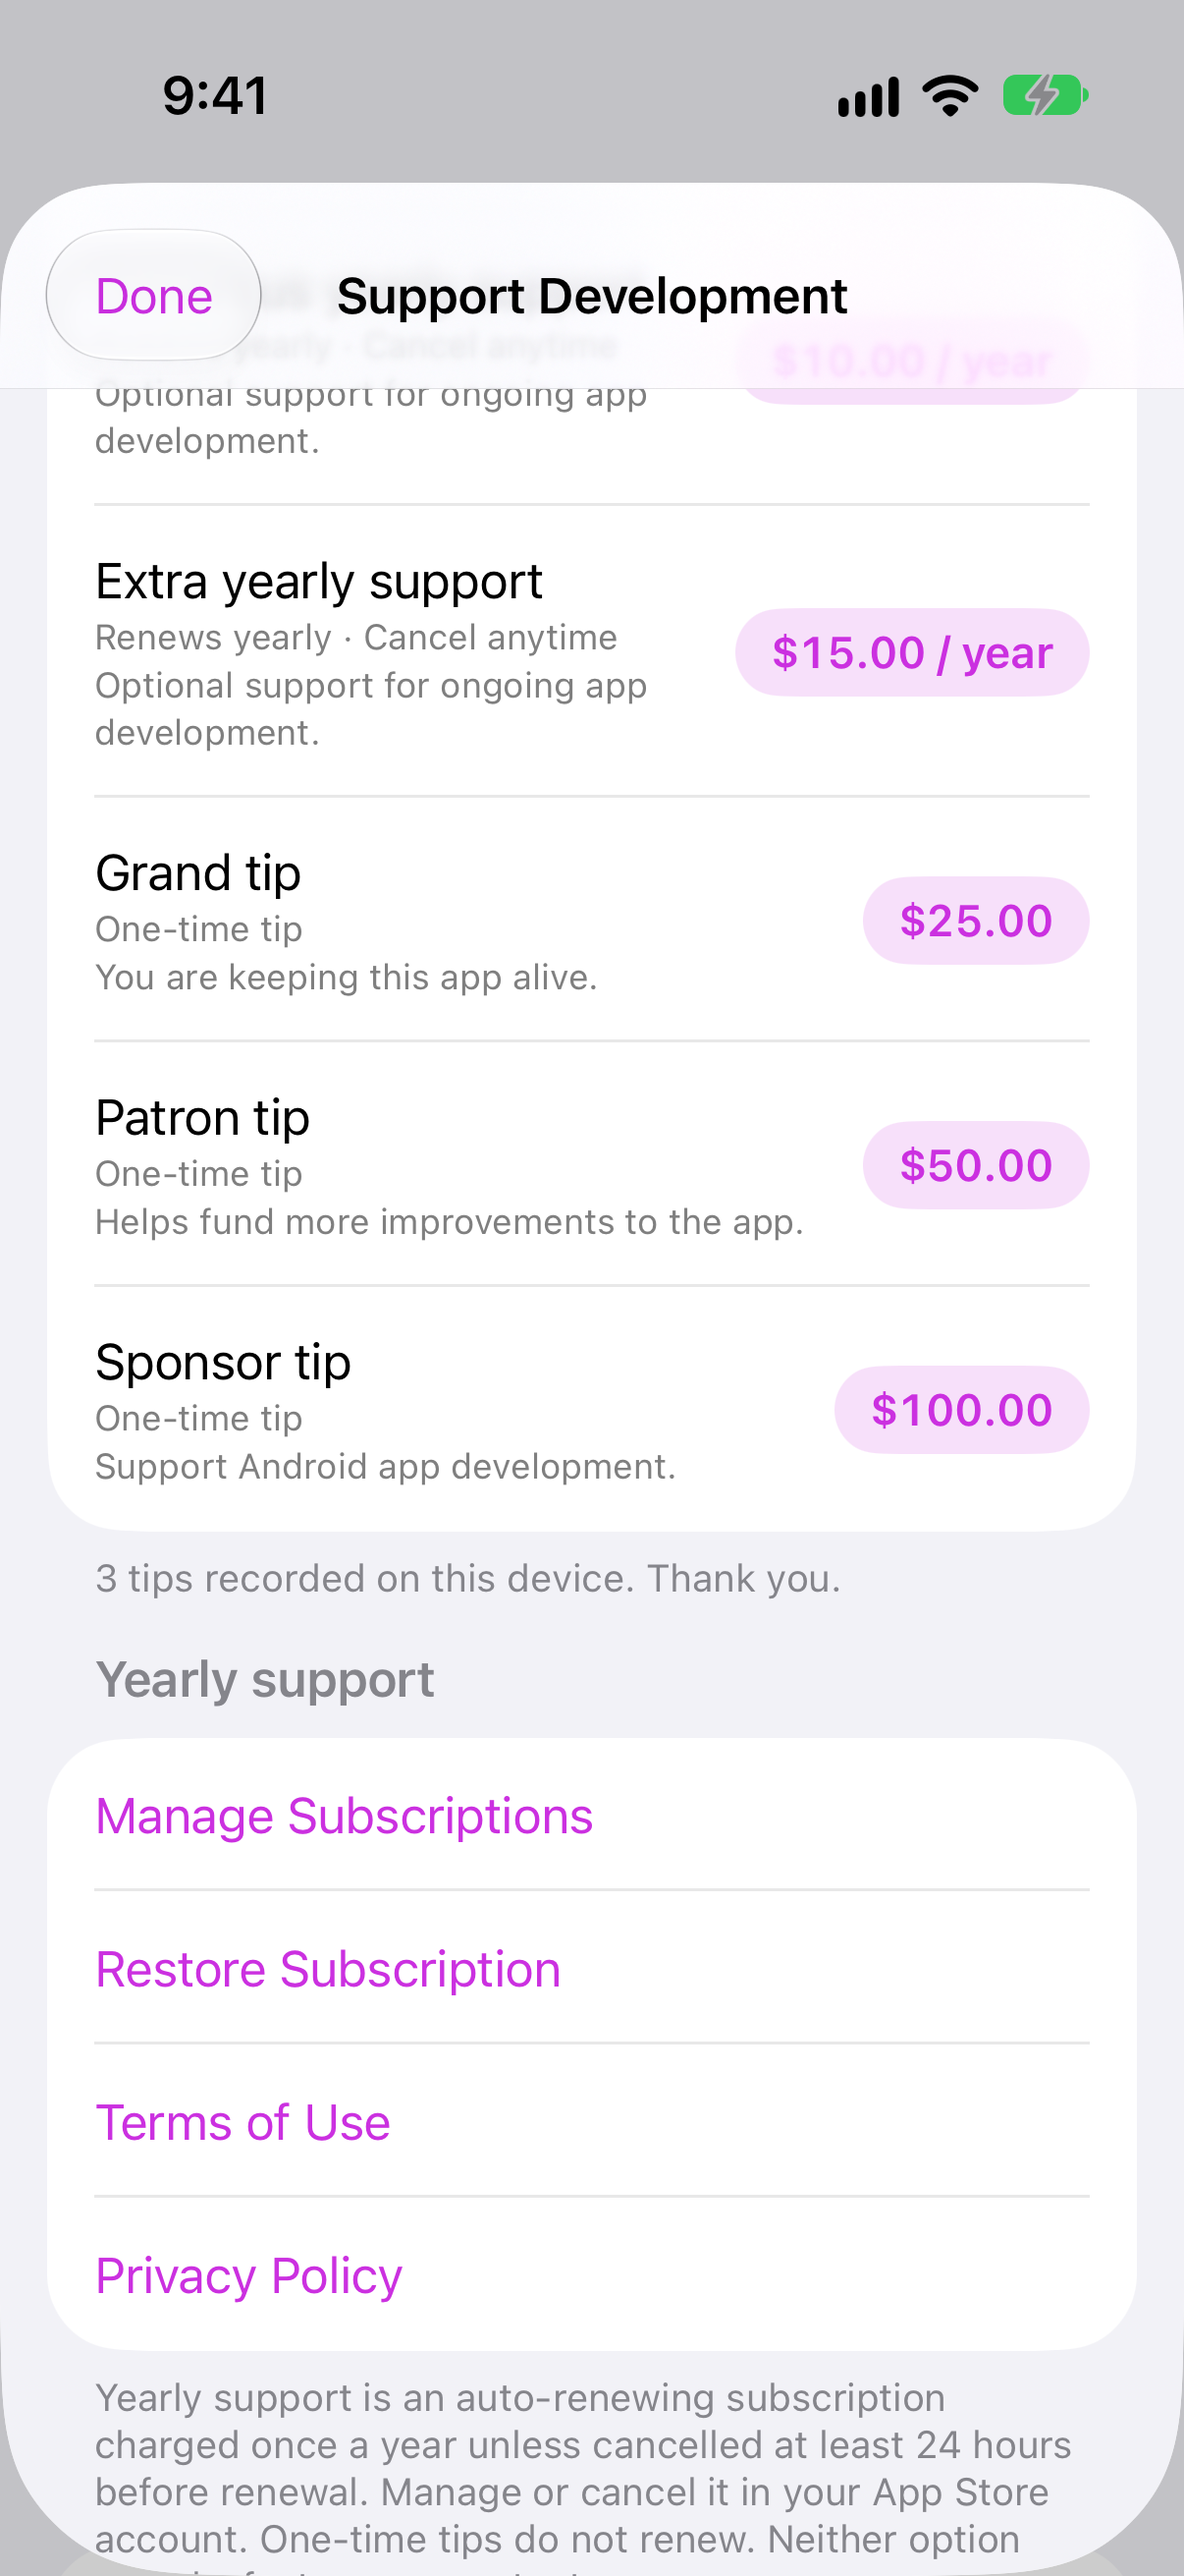
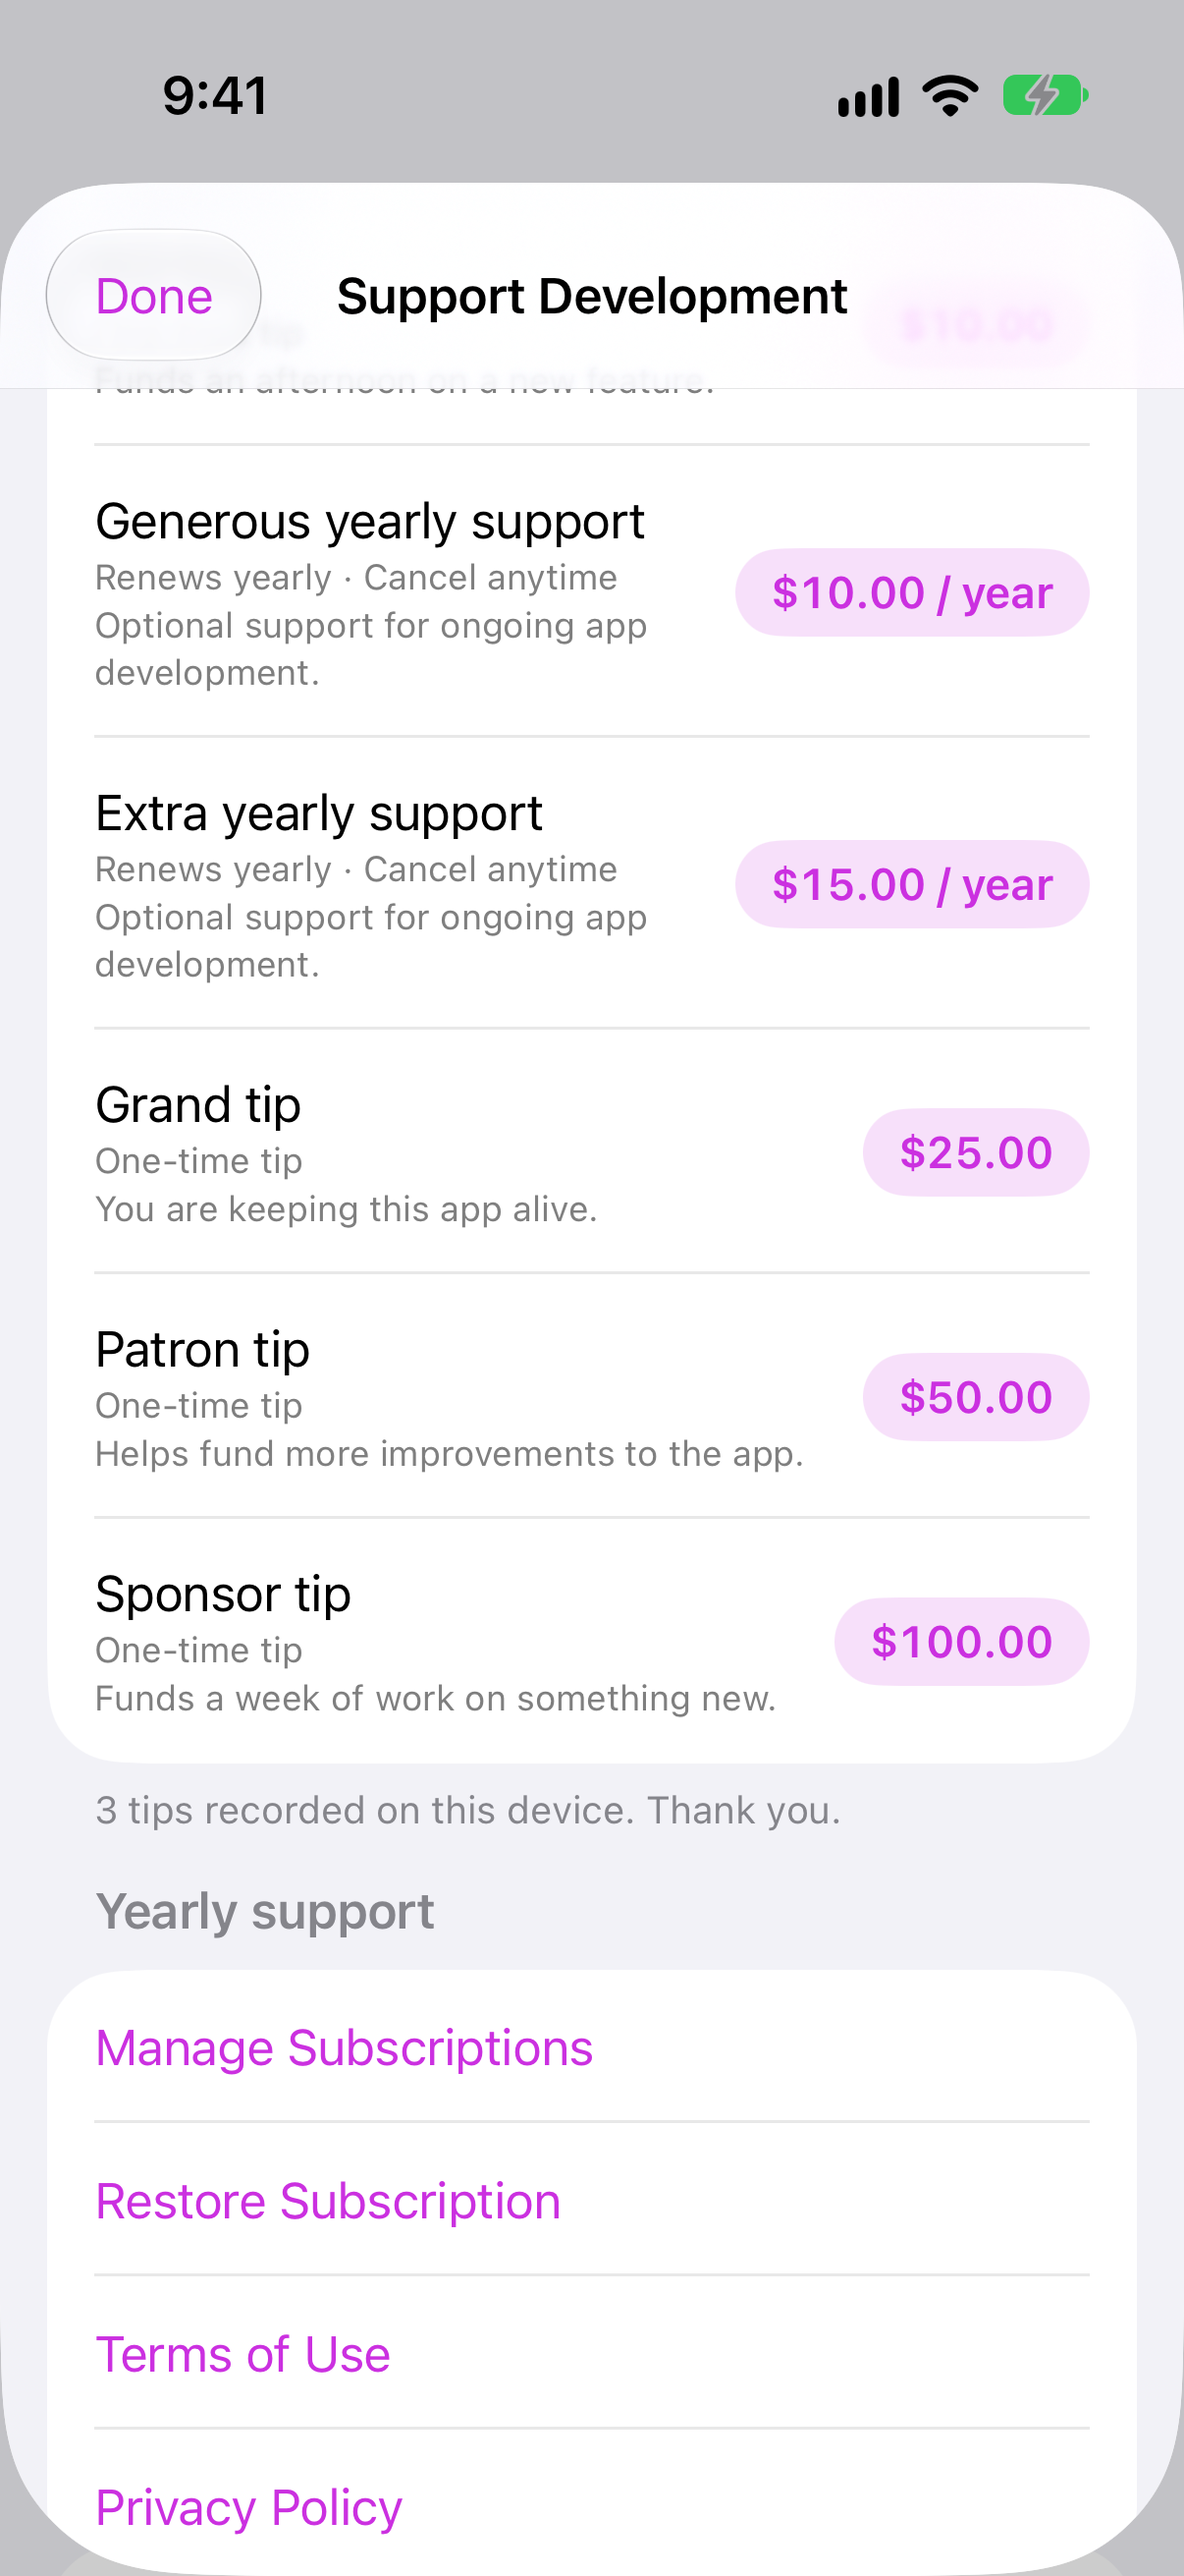
fix: Reword the Sponsor tip without naming another platform
App Review rejected 1.17.1 under Guideline 2.3.10 because the tip's
description named Android. It now reads "Funds a week of work on
something new." in App Store Connect and the local StoreKit catalog.

diff --git a/OshoDiscoursesUITests/TipJarPresentationTests.swift b/OshoDiscoursesUITests/TipJarPresentationTests.swift
@@ -105,7 +105,7 @@ final class TipJarPresentationTests: XCTestCase {
         XCTAssertTrue(sponsor.isHittable, app.debugDescription)
         XCTAssertTrue(sponsor.label.contains("Sponsor tip"), sponsor.label)
         XCTAssertTrue(sponsor.label.contains("One-time tip"), sponsor.label)
-        XCTAssertTrue(sponsor.label.contains("Support Android app development."), sponsor.label)
+        XCTAssertTrue(sponsor.label.contains("Funds a week of work on something new."), sponsor.label)
         XCTAssertTrue(sponsor.label.contains("$100.00"), sponsor.label)
         XCTAssertTrue(sponsor.isEnabled)
         capture(app, "support-light-tip.sponsor")

diff --git a/docs/app-store/releases/1.17.1.md b/docs/app-store/releases/1.17.1.md
@@ -1,8 +1,13 @@
 # 1.17.1 (38): Translation fixes and Sponsor tip
 
-**Status: submitted, `WAITING_FOR_REVIEW`.** Build 38 was submitted at
-2026-10-31T19:09:06Z with automatic release after approval, in review submission
-`8175d8d4-5925-45ea-82d7-d1b7397bdfec`. It has two items: app version
+**Status: resubmitted, `WAITING_FOR_REVIEW`.** App Review rejected the first build 38
+submission (`8175d8d4-5925-45ea-82d7-d1b7397bdfec`, 2026-10-31) under Guideline
+2.3.10: the Sponsor tip description named Android. The description now reads "Funds
+a week of work on something new." and its review screenshot was replaced; build 38
+was unchanged because the binary had no such text. The old submission could not take
+the edited tip back, so it was cancelled. Build 38 was resubmitted at
+2026-11-04T15:11:58Z with automatic release after approval, in review submission
+`fd7b09c3-6875-4ced-946c-94c811e330d2`. It has two items: app version
 `683349fc-d70b-4ad5-bb9c-175b1827eac9` and the Sponsor tip IAP version
 `5edfdbfd-57d5-4179-bc48-708e44194120`.
 
@@ -37,6 +42,7 @@ Build 37 (Sponsor tip only) was submitted on 2026-10-19 and withdrawn before rev
 
 | Check | Result |
 | --- | --- |
+| Sponsor tip UI test (2026-11-04) | `testSponsorTipIsTheLastOneTimeTipAndPurchasable` passed with the new description; its screenshot is the new review screenshot |
 | Unit tests, Osho iPhone 17 Pro / iOS 27.0 | Full suite: 803 of 807 passed. One failure was a stale expectation without the Sponsor tip, fixed in `730fa2f`. Three failed only on the full run with the simulator's saved app data (`PlaybackStateTests` history counts, `AudioPlayerIntegrationTests` seek resets); they passed on rerun with the device plist moved aside. On that rerun `purchaseRenewalCancellationExpiryAndRelaunch` failed, the known iOS 27 StoreKit expiry fixture failure |
 | Device, iPhone 16 Pro / iOS 27.0.1 (Preview build of `7de3246`) | Apple's prompt opened over Listen in Translation; closing it left the sheet and the app in the foreground. With a translation being prepared, the Lock Screen player showed for the original and the translation |
 | Release archive | `OshoDiscoursesCarPlay`, `Release-CarPlay`, automatic signing with Apple Development overrides, cloud distribution export (same route as 37) |

diff --git a/CLAUDE.md b/CLAUDE.md
@@ -386,7 +386,7 @@ Features from the RN version — port status:
 
 ## Dev notes
 
-- 1.17.1 (38) is submitted (`WAITING_FOR_REVIEW`, 2026-10-31T19:09:06Z, release after approval) with the translation-prompt crash fix, the Lock Screen player fix and the $100 Sponsor tip, whose IAP version is in the same submission. What's New lists only the two fixes. Build 37 (tip only) was withdrawn. See [the release record](docs/app-store/releases/1.17.1.md).
+- 1.17.1 (38) is resubmitted (`WAITING_FOR_REVIEW`, 2026-11-04T15:11:58Z, release after approval) after a Guideline 2.3.10 rejection for naming Android in the Sponsor tip description, with the translation-prompt crash fix, the Lock Screen player fix and the $100 Sponsor tip, whose IAP version is in the same submission. What's New lists only the two fixes. Build 37 (tip only) was withdrawn. See [the release record](docs/app-store/releases/1.17.1.md).
 - 1.17.0 (36) is released (`READY_FOR_SALE`, checked 2026-10-19). It adds listening in translation, relaunch restore and the What's New screen. Build 36's unit suite passed 798 of 799 (the known StoreKit expiry fixture failed). See [the release record](docs/app-store/releases/1.17.0.md).
 - 1.16.3 (34) is released (`READY_FOR_SALE`, checked 2026-10-17); it was submitted at 2026-10-12T18:29:28Z with optional yearly support, gentle engagement, finer playback speed and India-aware downloads. Build 33 was submitted earlier and withdrawn. The app, subscription group and all three annual subscription versions are in submission `a82513a6-a042-4625-96ea-d430b6520ac3`. The StoreKit expiry fixture fails in the iOS 27 simulator; the rest of the unit suite (530) passes. Xcode cloud signing produced the App Store IPA. See [the release record](docs/app-store/releases/1.16.3.md).
 - 1.16.0 (28) was approved and released on 2026-10-03 with CarPlay, Apple Watch and iPad; the Mac app is a later submission. See [the release record](docs/app-store/releases/1.16.0.md).

diff --git a/docs/app-store/in-app-purchases/README.md b/docs/app-store/in-app-purchases/README.md
@@ -32,17 +32,17 @@ walkthrough with a successful Small tip sandbox purchase. See the
 | Patron tip | `com.agraabhi.oshodiscourses.tip.patron` | `6812953032` | $50.00 |
 | Sponsor tip | `com.agraabhi.oshodiscourses.tip.sponsor` | `6824646478` | $100.00 |
 
-Sponsor tip ("Support Android app development.") was added on 2026-10-19 at the
-owner's request and submitted with 1.17.1 (IAP version
+Sponsor tip ("Funds a week of work on something new.") was added on 2026-10-19
+at the owner's request and submitted with 1.17.1 (IAP version
 `5edfdbfd-57d5-4179-bc48-708e44194120`). It uses a manual USA base price, the
-same 175 storefronts as Patron tip, and new territories automatically. Its
-description names another platform by the owner's choice; Guideline 2.3.10 forbids
-that "in your app or metadata", so a rejection means rewording only the
-description here and in App Store Connect. Its review screenshot is
+same 175 storefronts as Patron tip, and new territories automatically. Its first
+description named another platform; App Review rejected 1.17.1 under Guideline
+2.3.10, so the description was reworded on 2026-11-04. Product text and metadata
+must not name other mobile platforms. Its review screenshot is
 [`support-development-sponsor.png`](support-development-sponsor.png), 1206 × 2622
 from `TipJarPresentationTests.testSponsorTipIsTheLastOneTimeTipAndPurchasable`
-(review screenshot `00fa6e1c-6bac-441b-8194-a75964b4ca37`, MD5
-`d945ac9d73c4e7d1a33334fcce20e1ec`).
+(review screenshot `896802a1-df5f-4f03-b9a9-cd5c4760734e`, MD5
+`5ce030a0a471e7953baecdceba492c65`).
 
 Names and descriptions match
 [`TipJar.storekit`](../../../OshoDiscourses/TipJar.storekit). Each product uses
